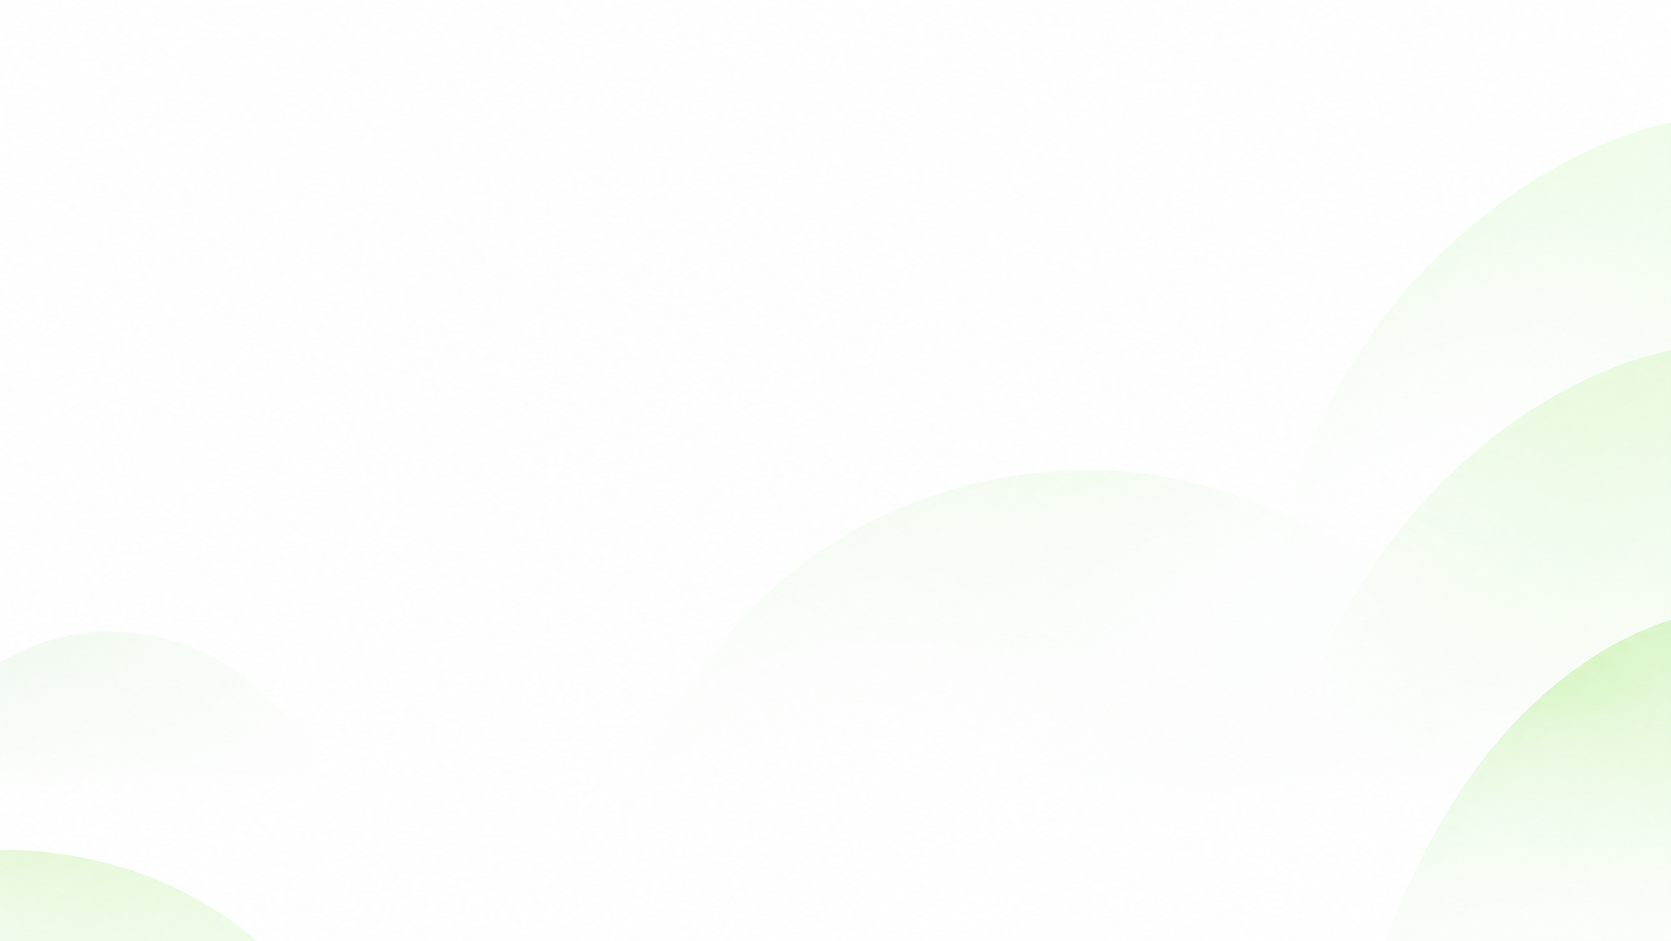
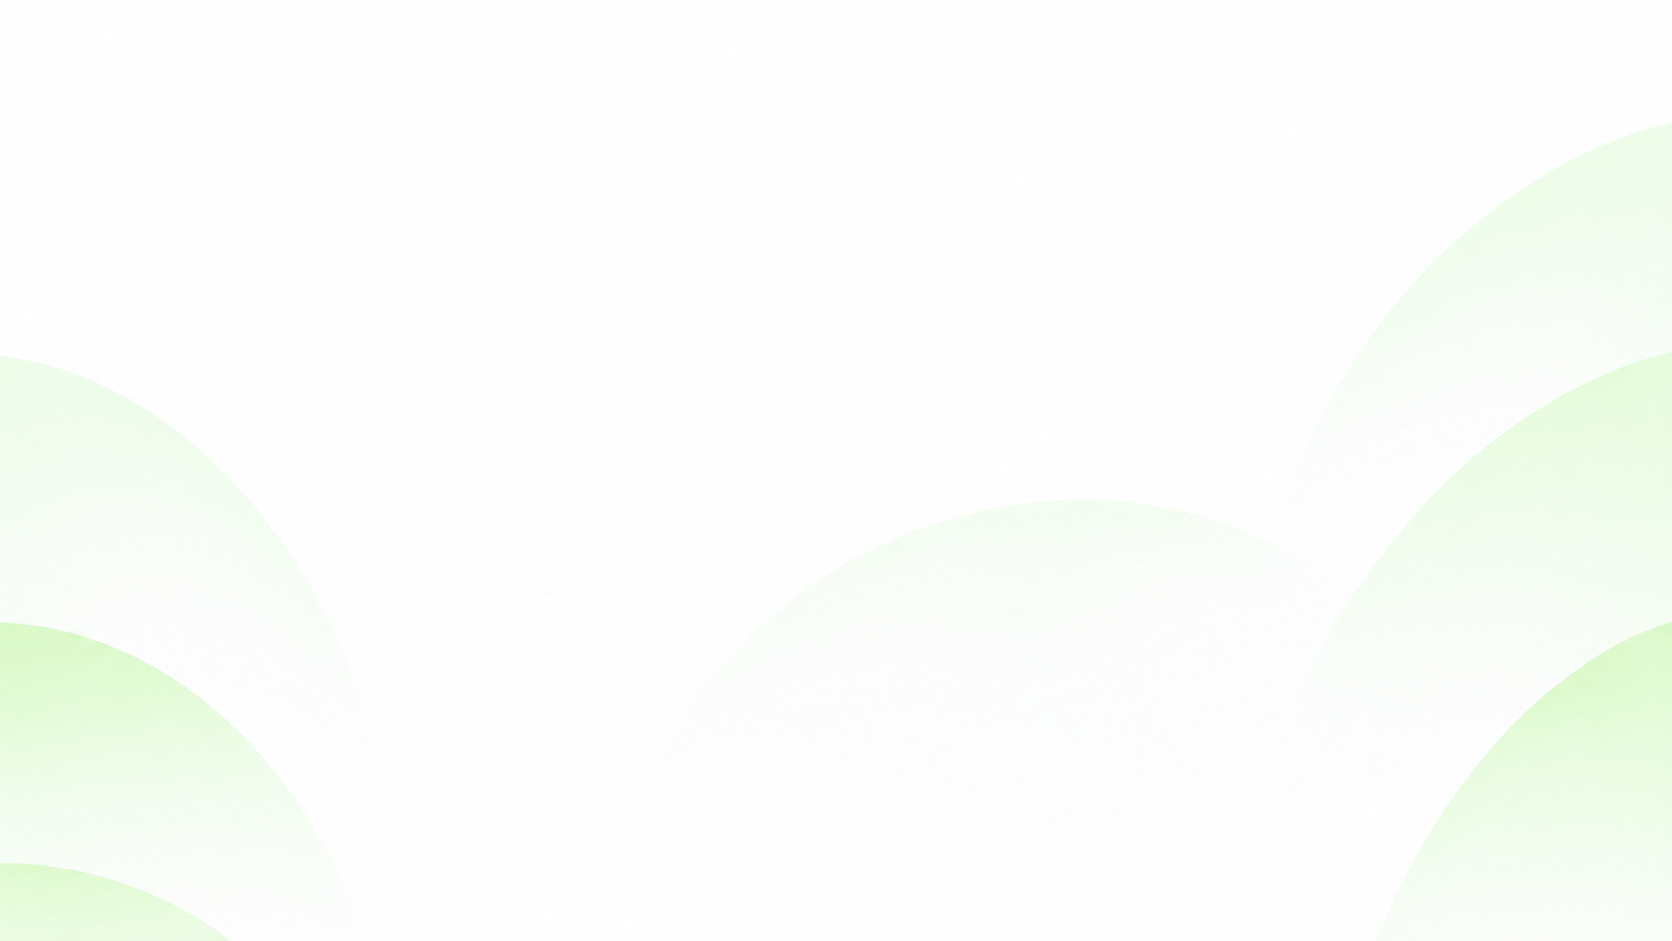
replace bg 3

Changed region(s): [[0.0, 0.6472, 0.1556, 0.8013], [0.0, 0.8937, 0.0622, 0.9245], [0.0622, 0.9245, 0.0934, 0.9554]]

diff --git a/assets/theme.css b/assets/theme.css
@@ -843,7 +843,7 @@ body.template-index main { padding-top: 0; }
 @media (min-width: 900px) { .ft-brand { align-items: flex-start; padding-right: 24px; } }
 .ft-logo-wrap { display: flex; flex-direction: column; align-items: center; }
 @media (min-width: 900px) { .ft-logo-wrap { align-items: flex-start; } }
-.ft-logo { height: 54px; width: auto; object-fit: contain; display: block; margin-bottom: 14px; transition: opacity 0.2s; }
+.ft-logo { height: 72px; width: auto; object-fit: contain; display: block; margin-bottom: 14px; transition: opacity 0.2s; }
 .ft-logo:hover { opacity: 0.8; }
 .ft-tagline { color: #d1d5db; font-size: 14px; font-weight: 600; text-align: center; }
 @media (min-width: 900px) { .ft-tagline { text-align: left; } }
